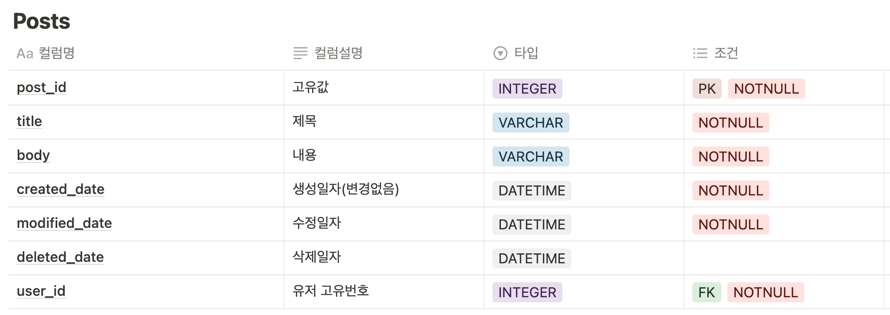
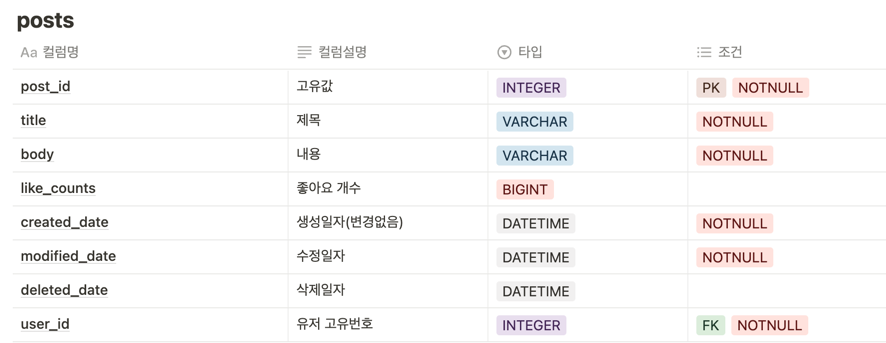
[Docs] README 수정

diff --git a/README.md b/README.md
@@ -15,21 +15,36 @@ hibernate : https://docs.jboss.org/hibernate/orm/5.4/userguide/html_single/Hiber
 ✅ ADMIN 회원으로 등급업하는 기능 <br>
 ✅ ADMIN 회원이 일반 회원을 ADMIN으로 승격시키는 기능 <br>
 ✅ ADMIN 회원이 로그인 시 자신이 쓴 글이 아닌 글과 댓글에 수정, 삭제를 할 수 있는 기능 <br>
+✅ 댓글 <br>
+✅ 좋아요 <br>
+✅ 마이피드 <br>
+✅ 알림 <br>
 ☑ 화면 UI 개발 <br>
 
-### [접근 방법]
+### [접근 방법 및 고민했던 부분]
 - db에 관한 설계를 고민해보았습니다.
 - CI/CD 를 위해 많은 자료들을 공부하였고, crontab과 gitlab 파이프라인을 활용했습니다.
 - 스웨거를 통해 화면 구성 없이 기능 API 문서를 자동화하여 볼 수 있게 했습니다.
 - 인증/인가를 위해 토큰 기반 인증 Bearer Authentication 중 jwt을 사용했습니다.
 - hibernate 원서와 jpa에서 사용하는 애노테이션을 보며 디폴트 값과 사용방법을 공부하며 적용했습니다.
-- 엔티티 값을 직접 변경하는 것을 지양했습니다.
-- 기능 단위의 테스트와 컨트롤러 테스트에서 통합테스트를 진행했습니다.
+- 엔티티 값을 setter로 변경하는 것을 지양했습니다.
+- 기능 단위의 테스트로 컨트롤러 테스트와 서비스 테스트를 진행했습니다.
+- 로깅을 적용할 시점을 런타임 시점에 적용해야 하는 것이 최선일까?
+  - 컴파일 시점 로딩
+  - 클래스 로딩 시점 로딩
+  - 런타임 시점(사용한 방법)
+    - 런타인 시점에 프록시 방식으로 스프링 AOP를 적용하다보니, 조인 포인트가 메서드 실행으로 제한되었다.
+    - 그로 인해 생성자, static 메서드 그리고 필드 값은 로깅이 불가능하다.
+- toEntity() 메서드가 다른 것에 의존해도 되는 것인가?
+  - toEntity메서드의 역할은 dto 객체를 entity로 만드는 역할인데, CommentCreateRequestDto에서 toEntity는 유저 엔티티와 포스트 엔티티에 의존하게 된다.
+- 알람 기능을 만들 때, 결합도에 관한 문제
+  - 알람 기능을 만들고 적용하려고 할 때, PostService, commentService, postLikeService, userService 모두 alarmRepository에 의존하게 된다.
+  - 댓글이 작성될 때 마다 알람을 전송한다는 것 댓글에 관한 비지니스 로직으로 보기는 힘들어보이고, commentService가 가져야 하는 책임인지도 의문이 든다.
 
 ### [아쉬운 점]
 - 테스트에 대한 기본지식 부족과 mock에 대한 지식 부족으로 인해 기능 테스트시간이 기능구현시간보다 적어도 3배이상 걸렸습니다.
 - Thymeleaf 를 복습할 겸 화면 UI를 만들고자 했지만, 못만들어서 아쉽습니다.
-- 
+
 ### 관리자 아이디
 ```json
 {
@@ -50,6 +65,15 @@ hibernate : https://docs.jboss.org/hibernate/orm/5.4/userguide/html_single/Hiber
 
 ### posts
 <img src="assets/img/postDB.png">
+
+### comments
+<img src="assets/img/commentDB.png">
+
+### postLikes
+<img src="assets/img/postLikeDB.png">
+
+### alarms
+<img src="assets/img/alarmDB.png">
 
 ## ERD
 <img src="assets/img/erd.png">
@@ -108,6 +132,51 @@ hibernate : https://docs.jboss.org/hibernate/orm/5.4/userguide/html_single/Hiber
     "result":{
         "role": "string"
     }
+}
+```
+
+### 알람 조회
+`GET /api/v1/alarms`
+```json
+{
+  "result": {
+    "content": [
+      {
+        "alarmType": "string",
+        "createdAt": "2023-01-10T05:12:12.013Z",
+        "id": int,
+        "targetId": int,
+        "text": "string",
+        "userId": int
+      }
+    ],
+    "empty": boolean,
+    "first": boolean,
+    "last": boolean,
+    "number": int,
+    "numberOfElements": int,
+    "pageable": {
+      "offset": int,
+      "pageNumber": int,
+      "pageSize": int,
+      "paged": boolean,
+      "sort": {
+        "empty": boolean,
+        "sorted": boolean,
+        "unsorted": boolean
+      },
+      "unpaged": boolean
+    },
+    "size": int,
+    "sort": {
+      "empty": boolean,
+      "sorted": boolean,
+      "unsorted": boolean
+    },
+    "totalElements": int,
+    "totalPages": int
+  },
+  "resultCode": "string"
 }
 ```
 
@@ -211,5 +280,157 @@ hibernate : https://docs.jboss.org/hibernate/orm/5.4/userguide/html_single/Hiber
     }
 }
 ```
+
+### 댓글 등록
+`POST /api/v1/posts/{postId}/comments`
+**request**
+```json
+{
+  "comment": "string"
+}
+```
+**response**
+```json
+{
+  "result": {
+    "comment": "string",
+    "createdAt": "2023-01-10T04:41:42.500Z",
+    "id": int
+    "postId": int
+    "userName": "string"
+  },
+  "resultCode": "string"
+}
+```
+
+### 댓글 리스트
+`GET /api/v1/posts/{postId}/comments`
+
+**response**
+```json
+{
+  "result": {
+    "content": [
+      {
+        "comment": "string",
+        "createdAt": "2023-01-10T04:43:45.078Z",
+        "id": int,
+        "postId": int,
+        "userName": "string"
+      }
+    ],
+    "empty": boolean,
+    "first": boolean,
+    "last": boolean,
+    "number": int,
+    "numberOfElements": int,
+    "pageable": {
+      "offset": int,
+      "pageNumber": int,
+      "pageSize": int,
+      "paged": boolean,
+      "sort": {
+        "empty": boolean,
+        "sorted": boolean,
+        "unsorted": boolean
+      },
+      "unpaged": boolean
+    },
+    "size": int,
+    "sort": {
+      "empty": boolean,
+      "sorted": boolean,
+      "unsorted": boolean
+    },
+    "totalElements": boolean,
+    "totalPages": boolean
+  },
+  "resultCode": "string"
+}
+```
+
+### 댓글 수정
+`PUT /api/v1/posts/{postId}/comments/{commentsId}`
+
+**request**
+```json
+{
+  "comment" : "string"
+}
+```
+
+**response**
+```json
+{
+  "result": {
+    "comment": "string",
+    "createdAt": "yyyy-MM-dd HH:mm:ss",
+    "id": int,
+    "lastModifiedAt": "yyyy-MM-dd HH:mm:ss",
+    "postId": int,
+    "userName": "string"
+  },
+  "resultCode": "string"
+}
+```
+
+### 댓글 삭제
+`DELETE /api/v1/posts/{postId}/comments/{commentId}`
+
+**response**
+```json
+{
+  "result": {
+    "id": int,
+    "message": "string"
+  },
+  "resultCode": "string"
+}
+```
+
+### 좋아요 추가
+`POST /api/v1/posts/{postId}/likes`
+
+**response**
+```json
+{
+  "result": "string",
+  "resultCode": "string"
+}
+```
+
+### 좋아요 개수 조회
+`GET /api/v1/posts/{postId}/likes`
+
+**response**
+```json
+{
+  "result": int,
+  "resultCode": "string"
+}
+```
+
+### 좋아요 취소
+`DELETE /api/v1/posts/{postId}/likes`
+```json
+{
+  "result": "string",
+  "resultCode": "string"
+}
+```
+
+### 좋아요 추가 및 삭제(누르면 추가, 다시누르면 삭제)
+`POST /api/v1/posts/{postId}/likes2`
+```json
+{
+  "result": "string",
+  "resultCode": "string"
+}
+```
+
+
+
+
+
 
 
